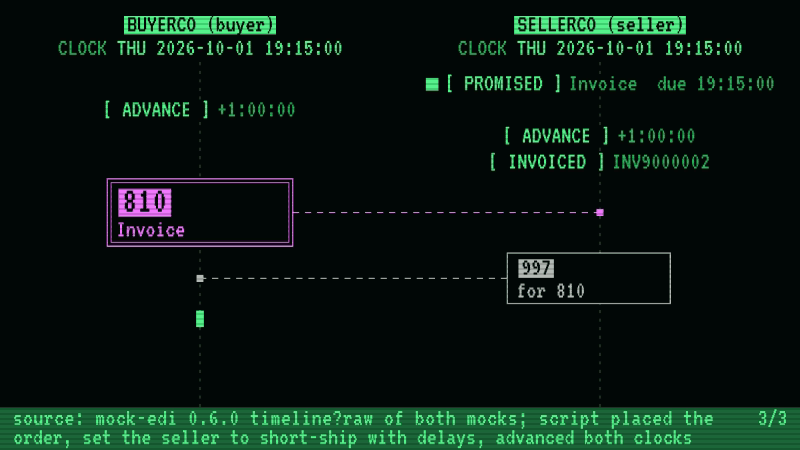
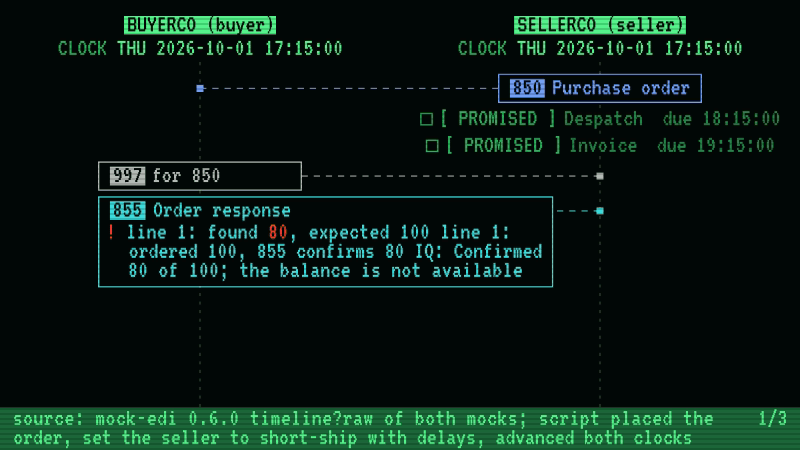
Films: take a still at the moment poster_ms names; edi_two_film's is 14.5 s
mock-films' index can now give a film a poster_ms, the time of the frame
that best stands for it; without one the still is the last frame, as
before. A film in acts can otherwise end on its last act alone.

- film_stills: frame_at(path, ms) plays a GIF to the frame showing at that
  moment, timing frames as browsers do (a delay of 0 or 1 hundredths is
  10). The page carries the moment as data-poster-ms on the film's link,
  so CI checks the still against it.
- sync_films: a poster_ms that differs from the page's is a change of its
  own ("repost"), since it comes with no new GIF or hash; it sets or
  removes data-poster-ms and the still is retaken.

The first: edi_two_film at 14500 ms, the end of act one with the 855
short-ship in red (mock-films b84cc4f). The frame is up from 14.10 s until
the next replaces it at 14.95 s, as mock-films said, and the computed
lengths of the films match theirs.

Claude-Session: https://claude.ai/code/session_015RDTBgG3oYVSZTAaz1gNwq

diff --git a/index.html b/index.html
@@ -76,7 +76,7 @@ curl "http://127.0.0.1:8000/sap/opu/odata/sap/API_SALES_ORDER_SRV/A_SalesOrder?\
 			<figcaption>an 850 opened, and an altered copy refused <span>drawn by mock-films from a real run</span></figcaption>
 		</figure>
 		<figure class="film">
-			<a class="play" href="/blog/edi_two_film.gif" title="play the film"><img src="/blog/edi_two_film.png" width="800" height="450" loading="lazy" alt="BUYERCO's mock-edi sends an 850 to SELLERCO's mock-edi. The capture set the seller to short-ship and to delay its despatch and invoice, so it acknowledges the order, confirms 80 of the 100 ordered, and the buyer's mock flags the shortfall on that 855. The capture moves both mocks' clocks an hour at a time; the seller then packs and sends the despatch advice, and raises and sends the invoice, with the buyer's mock acknowledging each."></a>
+			<a class="play" href="/blog/edi_two_film.gif" data-poster-ms="14500" title="play the film"><img src="/blog/edi_two_film.png" width="800" height="450" loading="lazy" alt="BUYERCO's mock-edi sends an 850 to SELLERCO's mock-edi. The capture set the seller to short-ship and to delay its despatch and invoice, so it acknowledges the order, confirms 80 of the 100 ordered, and the buyer's mock flags the shortfall on that 855. The capture moves both mocks' clocks an hour at a time; the seller then packs and sends the despatch advice, and raises and sends the invoice, with the buyer's mock acknowledging each."></a>
 			<figcaption>two mocks trading, no script playing a partner <span>drawn by mock-films from a real run</span></figcaption>
 		</figure>
 <pre><code>pip install mock-edi

diff --git a/tools/film_stills.py b/tools/film_stills.py
@@ -9,7 +9,10 @@ visitor clicks it (js/films.js); without the script, the link opens the GIF:
       <a class="play" href="/blog/NAME.gif" ...><img src="/blog/NAME.png" ...></a>
       ...
 
-The still is the film's final frame - the whole exchange, once it has played.
+The still is the film's final frame - the whole exchange, once it has played -
+unless the film names another moment with data-poster-ms on its link, the
+time in milliseconds of the frame to show. A film in acts may end on its last
+act alone, and mock-films names the frame that tells the story better.
 This script plays each GIF to its end and writes that frame next to it, so
 adding a film is adding the GIF and the markup, and running this.
 
@@ -35,6 +38,8 @@ PAGE = os.path.join(ROOT, "index.html")
 FIGURE = re.compile(r'<figure class="film">(.*?)</figure>', re.S)
 GIF = re.compile(r'<a[^>]*\bclass="play"[^>]*\bhref="(/[^"]+\.gif)"')
 STILL = re.compile(r'<img[^>]*\bsrc="(/[^"]+\.png)"')
+# The moment the still is taken from, when it is not the last frame.
+POSTER = re.compile(r'<a[^>]*\bclass="play"[^>]*\bdata-poster-ms="(\d+)"')
 
 
 # ---------------------------------------------------------------------------
@@ -108,8 +113,15 @@ def _palette(data, pos, flags):
 
 
 def last_frame(path):
-    """The canvas once every frame has been drawn: (width, height, pixels),
-    each pixel an (r, g, b) tuple or None where nothing has been drawn."""
+    """The canvas once every frame has been drawn."""
+    return frame_at(path, None)
+
+
+def frame_at(path, ms):
+    """The canvas a viewer sees `ms` milliseconds into the film, or once every
+    frame has been drawn when `ms` is None: (width, height, pixels), each
+    pixel an (r, g, b) tuple or None where nothing has been drawn. A time past
+    the end is the last frame, which the film holds."""
     with open(path, "rb") as handle:
         data = handle.read()
     if data[:6] not in (b"GIF87a", b"GIF89a"):
@@ -124,7 +136,8 @@ def last_frame(path):
     # and the still has to show the same thing. None is transparent.
     fill = None
     canvas = [fill] * (width * height)
-    disposal, transparent = 0, None
+    disposal, transparent, delay = 0, None, 0
+    clock = 0   # when the next frame goes up, in ms
     # The previous frame's disposal, carried out only when another frame
     # arrives: the last frame's is never done, because it is what the film
     # ends on - and a comment block after it must not count as a next frame.
@@ -140,6 +153,7 @@ def last_frame(path):
             if label == 0xF9 and len(block) >= 4:           # graphic control
                 disposal = (block[0] >> 2) & 0x07
                 transparent = block[3] if block[0] & 0x01 else None
+                delay = struct.unpack("<H", block[1:3])[0]
             continue
         if marker != 0x2C:
             raise ValueError("%s: unexpected block 0x%02x at %d" % (path, marker, pos - 1))
@@ -153,6 +167,13 @@ def last_frame(path):
         indices = _lzw(compressed, min_code_size, w * h)
         if image_flags & 0x40:
             indices = _deinterlace(indices, w, h)
+
+        # A frame that goes up after `ms` is not seen yet: what is on the
+        # canvas now, the previous frame and its disposal not yet done, is.
+        if ms is not None and pending and clock > ms:
+            return width, height, canvas
+        # Browsers show a delay of 0 or 1 hundredths of a second as 10.
+        clock += (delay if delay > 1 else 10) * 10
 
         if pending:
             done, done_rect, done_saved = pending
@@ -171,7 +192,7 @@ def last_frame(path):
             if index != transparent and index < len(palette):
                 canvas[y * width + x] = palette[index]
         pending = (disposal, rect, saved)
-        disposal, transparent = 0, None
+        disposal, transparent, delay = 0, None, 0
     return width, height, canvas
 
 
@@ -282,14 +303,16 @@ def read_png(data):
 # ---------------------------------------------------------------------------
 
 def films(page_html):
-    """(gif, still) site paths for every film on the page; still is None when
-    the figure shows no PNG."""
+    """(gif, still, poster_ms) for every film on the page: site paths, still
+    None when the figure shows no PNG, and poster_ms None for the last frame."""
     found = []
     for figure in FIGURE.findall(page_html):
         gif = GIF.search(figure)
         if gif:
             still = STILL.search(figure)
-            found.append((gif.group(1), still.group(1) if still else None))
+            poster = POSTER.search(figure)
+            found.append((gif.group(1), still.group(1) if still else None,
+                          int(poster.group(1)) if poster else None))
     return found
 
 
@@ -307,7 +330,7 @@ def main(argv=None):
         return 0
 
     problems, written = [], []
-    for gif, still in listed:
+    for gif, still, poster_ms in listed:
         expected = gif[:-len(".gif")] + ".png"
         if still is None:
             problems.append("%s's figure shows no still; its <img> should be "
@@ -322,7 +345,7 @@ def main(argv=None):
         if not os.path.exists(gif_file):
             problems.append("%s is on the page but not in the repository" % gif)
             continue
-        frame = last_frame(gif_file)
+        frame = frame_at(gif_file, poster_ms)
         wanted = png(*frame)
         try:
             with open(still_file, "rb") as handle:
@@ -334,7 +357,8 @@ def main(argv=None):
         if current:
             continue
         if args.check:
-            problems.append("%s is missing or is not %s's final frame" % (still, gif))
+            problems.append("%s is missing or is not %s's frame at %s" % (
+                still, gif, "%d ms" % poster_ms if poster_ms is not None else "the end"))
         else:
             with open(still_file, "wb") as handle:
                 handle.write(wanted)

diff --git a/tools/sync_films.py b/tools/sync_films.py
@@ -19,6 +19,7 @@ What --apply does, per film in the index:
                                 the features list
     finished, a different hash  the new cut copied into blog/
     finished, different text    the alt text and caption replaced, as written
+    finished, other poster_ms   the still retaken at that moment (none: the end)
     withdrawn, on the page      its figure, GIF and still removed
 
 and then writes the stills, through film_stills. A film on the page that the
@@ -50,6 +51,8 @@ NAME = re.compile(r"[a-z0-9_]+\Z")
 
 FIGURE = re.compile(r'\n?([ \t]*)<figure class="film">.*?</figure>', re.S)
 SRC = re.compile(r'<a class="play" href="/blog/([a-z0-9_]+)\.gif"')
+PLAY = re.compile(r'<a class="play" [^>]*>')
+POSTER = re.compile(r' data-poster-ms="(\d+)"')
 ALT = re.compile(r'(<img[^>]*\balt=")([^"]*)(")')
 # The line under every caption, after the mock-films team's own words.
 TAG = "<span>drawn by mock-films from a real run</span>"
@@ -63,15 +66,22 @@ def attr(text):
     return html.escape(text, quote=False).replace('"', "&quot;")
 
 
-def figure(name, alt, caption, width, height, indent, lazy):
+def play_tag(name, poster_ms):
+    """The link that plays a film; data-poster-ms names the still's moment."""
+    return '<a class="play" href="/blog/%s.gif"%s title="play the film">' % (
+        name, ' data-poster-ms="%d"' % poster_ms if poster_ms is not None else "")
+
+
+def figure(name, alt, caption, width, height, indent, lazy, poster_ms=None):
     i = indent
-    return ("\n%s<figure class=\"film\">\n"
-            "%s\t<a class=\"play\" href=\"/blog/%s.gif\" title=\"play the film\">"
-            "<img src=\"/blog/%s.png\" width=\"%d\" height=\"%d\"%s alt=\"%s\"></a>\n"
-            "%s\t<figcaption>%s " + TAG + "</figcaption>\n"
-            "%s</figure>") % (i, i, name, name, width, height,
-                              ' loading="lazy"' if lazy else "", attr(alt),
-                              i, html.escape(caption, quote=False), i)
+    img = '<img src="/blog/%s.png" width="%d" height="%d"%s alt="%s">' % (
+        name, width, height, ' loading="lazy"' if lazy else "", attr(alt))
+    return "".join([
+        "\n%s<figure class=\"film\">\n" % i,
+        "%s\t%s%s</a>\n" % (i, play_tag(name, poster_ms), img),
+        "%s\t<figcaption>%s %s</figcaption>\n" % (i, html.escape(caption, quote=False), TAG),
+        "%s</figure>" % i,
+    ])
 
 
 def sha256(path):
@@ -90,6 +100,10 @@ def load_index(films_dir):
         if not NAME.match(name) or os.path.basename(film["path"]) != name + ".gif":
             sys.exit("index.json: %r does not name its GIF (%s); stopping"
                      % (name, film["path"]))
+        poster_ms = film.get("poster_ms")
+        if poster_ms is not None and (not isinstance(poster_ms, int) or poster_ms < 0):
+            sys.exit("index.json: %s has poster_ms %r, not a time in ms; stopping"
+                     % (name, poster_ms))
         if film["status"] == "finished":
             gif = os.path.join(films_dir, film["path"])
             if sha256(gif) != film["sha256"]:
@@ -100,13 +114,15 @@ def load_index(films_dir):
 
 
 def on_page(page):
-    """name -> (alt, caption) for each film on the page."""
+    """name -> (alt, caption, poster_ms) for each film on the page."""
     found = {}
     for m in FIGURE.finditer(page):
         block = m.group(0)
         name = SRC.search(block).group(1)
+        poster = POSTER.search(PLAY.search(block).group(0))
         found[name] = (html.unescape(ALT.search(block).group(2)),
-                       html.unescape(CAPTION.search(block).group(2)))
+                       html.unescape(CAPTION.search(block).group(2)),
+                       int(poster.group(1)) if poster else None)
     return found
 
 
@@ -128,8 +144,11 @@ def plan(films, page):
         gif = os.path.join(BLOG, name + ".gif")
         if not os.path.exists(gif) or sha256(gif) != film["sha256"]:
             changes.append(("recut", film))
-        if shown[name] != (film["alt"], film["caption"]):
+        if shown[name][:2] != (film["alt"], film["caption"]):
             changes.append(("retext", film))
+        # The still's moment can change with nothing else: same GIF, same hash.
+        if shown[name][2] != film.get("poster_ms"):
+            changes.append(("repost", film))
     unknown = sorted(set(shown) - listed)
     return changes, unknown
 
@@ -150,6 +169,11 @@ def apply(changes, films_dir, page):
                 return CAPTION.sub(lambda c: c.group(1) + html.escape(film["caption"], quote=False)
                                    + c.group(3), block, count=1)
             page = FIGURE.sub(retext, page)
+        if kind == "repost":
+            page = FIGURE.sub(lambda m, film=film: m.group(0) if SRC.search(m.group(0)).group(1)
+                              != film["name"] else PLAY.sub(
+                                  lambda a: play_tag(film["name"], film.get("poster_ms")),
+                                  m.group(0), count=1), page)
         if kind == "withdraw":
             page = FIGURE.sub(lambda m: "" if SRC.search(m.group(0)).group(1) == name
                               else m.group(0), page)
@@ -179,7 +203,7 @@ def apply(changes, films_dir, page):
             # Only the first film on the page loads eagerly; it is above the fold.
             lazy = FIGURE.search(page).start() < project.start() + at
             new = figure(name, film["alt"], film["caption"], film.get("width", 800),
-                         film.get("height", 450), indent, lazy)
+                         film.get("height", 450), indent, lazy, film.get("poster_ms"))
             page = page[:project.start() + at] + new + page[project.start() + at:]
     return page
 

diff --git a/README.md b/README.md
@@ -32,7 +32,10 @@ python3 tools/sync_films.py            # what differs from the index
 python3 tools/sync_films.py --apply    # add, re-cut, re-text, withdraw; write the stills
 ```
 
-A new film goes under the project of its first mock. A film on the page that
+A film's still is its last frame unless the index gives a `poster_ms`; the
+page carries it as `data-poster-ms` on the film's link, and the still is the
+frame showing at that moment. A new film goes under the project of its first
+mock. A film on the page that
 the index does not list is reported and left alone. mock-films is private, so
 CI does not run the sync; it runs the still check:
 
